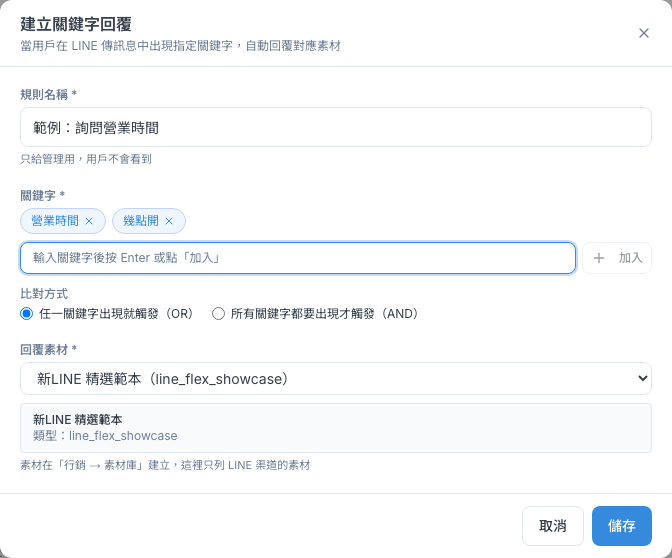
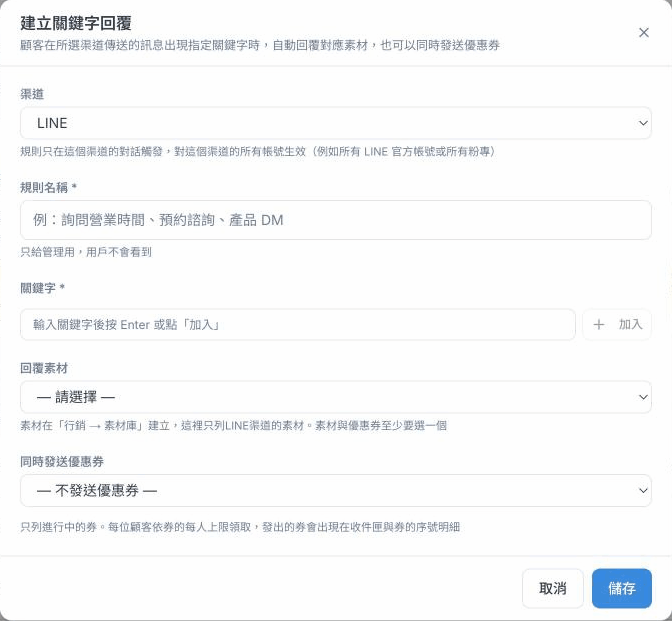
docs: 手冊第 10 章改為關鍵字回覆
- 第 5 節改寫為 LINE、Facebook、Instagram 共用的「關鍵字回覆」（PR #371）：
  建立時選渠道、素材依渠道過濾、Instagram 只能發券、同時發券與「發不出時回覆顧客」、
  列表渠道欄與篩選、渠道建立後不能改、未限定渠道的舊規則、啟用開關即時更新
- 「從這頁儲存會清掉其他動作」的警告改為「其他動作與條件會保留」（design D25）
- 重拍建立對話框截圖，新增列表截圖（UAT，只開啟對話框未儲存）；舊影片標 SHOT-OUTDATED
- 第 9 章與總目錄的「LINE 關鍵字回覆」改為「關鍵字回覆」

diff --git a/apps/web/public/manual/ch10-line.html b/apps/web/public/manual/ch10-line.html
@@ -36,16 +36,16 @@
       <div class="inner">
         <div class="eyebrow">CHAPTER 10 · 行銷與渠道</div>
         <h1>LINE 渠道工具</h1>
-        <p>設定 LINE 官方帳號的聊天室底部選單（Rich Menu）、客戶打到關鍵字時自動回覆的規則，以及客服回訊息時可一鍵帶入的快速回覆按鈕。</p>
+        <p>設定 LINE 官方帳號的聊天室底部選單（Rich Menu）、顧客打到關鍵字時自動回覆或發券的規則（LINE、Facebook、Instagram），以及客服回訊息時可一鍵帶入的快速回覆按鈕。</p>
       </div>
     </section>
 
     <section class="doc" id="p1">
       <h2><span class="idx">1</span> 這頁能做什麼</h2>
-      <p>這一章的三個工具都在側欄「行銷與渠道 › 渠道」底下，專門給 LINE 官方帳號用：</p>
+      <p>這一章的工具都在側欄「行銷與渠道 › 渠道」底下。Rich Menu 與快速回覆專門給 LINE 官方帳號用；關鍵字回覆可以用在 LINE、Facebook 與 Instagram：</p>
       <div class="quick">
         <a href="#p2"><b>LINE Rich Menu</b>聊天室底部的圖文選單</a>
-        <a href="#p5"><b>LINE 關鍵字回覆</b>客戶打到關鍵字，自動回一則素材</a>
+        <a href="#p5"><b>關鍵字回覆</b>顧客打到關鍵字，自動回素材或發券（LINE、Facebook、Instagram）</a>
         <a href="#p6"><b>LINE 快速回覆</b>存好常用按鈕組，客服一鍵帶入</a>
       </div>
       <div class="info"><span>ℹ</span><div>側欄看得到「渠道」需要管理員開給你「管理圖文選單」權限。另外，關鍵字回覆的頁面需要「檢視自動化」（新增修改要「管理自動化」）；快速回覆的新增、修改、刪除需要「管理快速回覆」。權限不夠時，關鍵字回覆頁可能看起來像「尚未建立任何關鍵字回覆」，請找管理員確認。</div></div>
@@ -168,25 +168,28 @@
 
     <section class="doc" id="p5">
       <h2><span class="idx">5</span> 關鍵字回覆</h2>
-      <p>客戶在 LINE 傳來的訊息裡出現你設定的關鍵字，系統就自動回一則素材。例如客戶問「營業時間」，自動回營業時間的圖卡。</p>
+      <p>顧客在 LINE、Facebook 或 Instagram 傳來的訊息裡出現你設定的關鍵字，系統就自動回一則素材，也可以同時發一張優惠券。例如顧客問「營業時間」，自動回營業時間的圖卡；顧客傳「領券」，自動發一張優惠券。側欄的位置是「渠道 › 關鍵字回覆」（以前叫「LINE 關鍵字回覆」）。</p>
       <figure class="video">
         <video controls preload="none" playsinline poster="uploads/videos/ch10-keyword-create.jpg">
           <source src="uploads/videos/ch10-keyword-create.mp4" type="video/mp4">
         </video>
-        <figcaption><span class="tag">影片</span>建立關鍵字回覆：填規則名稱、加兩個關鍵字、選回覆素材（約 26 秒）</figcaption>
+        <figcaption><span class="tag">影片</span>建立關鍵字回覆：填規則名稱、加兩個關鍵字、選回覆素材（約 26 秒）。影片錄於新增「渠道」欄位之前，現在建立時要先選渠道。</figcaption>
       </figure>
+      <!-- SHOT-OUTDATED: 影片錄於 PR #371 之前，對話框沒有「渠道」與「同時發送優惠券」欄位；重錄需要實際建立規則 -->
       <ol class="steps">
-        <li>先到「素材庫」做好要回覆的 LINE 素材（第 09 章）。</li>
-        <li>側欄點「渠道 › LINE 關鍵字回覆」，按「建立關鍵字回覆」。</li>
+        <li>先到「素材庫」做好要回覆的素材（第 09 章）。只想發券、不回素材，可以略過這步。</li>
+        <li>側欄點「渠道 › 關鍵字回覆」，按「建立關鍵字回覆」。</li>
+        <li>選「渠道」：LINE、Facebook 或 Instagram。規則只在這個渠道的對話觸發。如果你先在列表上方點了某個渠道的篩選，新規則會預設成那個渠道。</li>
         <li>填「規則名稱」，例如「詢問營業時間」（只給內部看）。</li>
         <li>在「關鍵字」框輸入一個關鍵字，按 Enter 或「加入」，它會變成一個小標籤。可以加好幾個。</li>
         <li>有兩個以上關鍵字時，選「比對方式」（見下表）。</li>
-        <li>「回覆素材」選一則 LINE 素材，下方會顯示素材名稱與類型。</li>
+        <li>「回覆素材」只會列出所選渠道的素材（LINE 規則只列 LINE 素材，Facebook 規則只列 Facebook 素材）。Instagram 目前沒有素材，這一欄不能選，只能發券。</li>
+        <li>要同時發券，在「同時發送優惠券」選一張進行中的券；選了券之後可以填「發不出時回覆顧客」（見下方「同時發券」）。<b>回覆素材與優惠券至少要選一個。</b></li>
         <li>按「儲存」。<b>新規則一存檔就立即生效。</b></li>
       </ol>
       <figure class="shot shot-narrow">
-        <img src="uploads/shots/ch10-keyword-dialog.png" alt="建立關鍵字回覆對話框：規則名稱、兩個關鍵字標籤、比對方式、回覆素材" loading="lazy">
-        <figcaption>關鍵字要按 Enter 或「加入」變成標籤才算數。</figcaption>
+        <img src="uploads/shots/ch10-keyword-dialog.png" alt="建立關鍵字回覆對話框：渠道、規則名稱、關鍵字、回覆素材、同時發送優惠券" loading="lazy">
+        <figcaption>先選渠道，回覆素材只列這個渠道的素材。關鍵字要按 Enter 或「加入」變成標籤才算數。</figcaption>
       </figure>
       <h3>關鍵字怎麼比對</h3>
       <table>
@@ -197,21 +200,34 @@
         </tbody>
       </table>
       <ul>
-        <li>比對是「訊息裡<b>包含</b>這幾個字」就算，不需要一字不差。所以關鍵字太短容易誤觸，例如關鍵字「價」，客戶說「評價」也會觸發。關鍵字請盡量寫完整。</li>
+        <li>比對是「訊息裡<b>包含</b>這幾個字」就算，不需要一字不差。所以關鍵字太短容易誤觸，例如關鍵字「價」，顧客說「評價」也會觸發。關鍵字請盡量寫完整。</li>
         <li>英文不分大小寫。</li>
-        <li>只會回覆 LINE 的對話，而且公司有多個 LINE 官方帳號時，<b>每個帳號都會套用</b>同一組規則。</li>
+        <li>每條規則只在所選渠道的對話觸發，並對這個渠道的<b>所有帳號</b>生效。例如公司有多個 LINE 官方帳號，LINE 規則每個帳號都會套用；Facebook 規則對所有粉專都會套用。</li>
+        <li>同一組關鍵字要在不同渠道都回覆，請每個渠道各建一條規則。</li>
+      </ul>
+      <h3>同時發券</h3>
+      <ul>
+        <li>「同時發送優惠券」只列進行中的券。每位顧客依券的每人上限領取，發出的券會出現在收件匣與券的序號明細（第 18 章）。</li>
+        <li>「發不出時回覆顧客」是選填。顧客已達領取上限、券已發完或暫停時，系統送出這段文字，例如「您已經領過這張券囉」；空白就不回覆。沒有發出的原因都會記在該對話中。</li>
+        <li>Facebook 與 Instagram 的顧客開啟票券時，以 email 驗證身分。</li>
       </ul>
       <h3>什麼時候會觸發</h3>
-      <p>客戶每傳一則含有關鍵字的訊息，就會自動回覆一次，沒有次數上限；<b>即使這段對話已經由客服接手</b>也會回。命中的規則能在這段對話的渠道送出回覆時，AI 客服就不會再另外回覆，避免客戶一次收到兩則。頁面上「怎麼用？」框裡的說明也是這樣寫的。</p>
+      <p>顧客每傳一則含有關鍵字的訊息，就會自動回覆一次，沒有次數上限；<b>即使這段對話已經由客服接手</b>也會回。命中的規則能在這段對話的渠道送出回覆時，AI 客服就不會再另外回覆，避免顧客一次收到兩則。頁面上「怎麼用？」框裡的說明也是這樣寫的。</p>
       <h3>管理規則</h3>
+      <figure class="shot">
+        <img src="uploads/shots/ch10-keyword-list.png" alt="關鍵字回覆列表：上方有全部、LINE、Facebook、Instagram 篩選，表格有狀態、規則名稱、渠道、關鍵字、回覆素材、優惠券與動作欄" loading="lazy">
+        <figcaption>列表上方可以依渠道篩選；「渠道」欄顯示規則在哪個渠道觸發。</figcaption>
+      </figure>
       <ul>
-        <li>列表最左邊的「啟用／停用」膠囊點一下就會切換，<b>立即生效</b>。暫時不想自動回覆，就切成停用。</li>
-        <li>「編輯」可以改關鍵字和素材；「刪除」會移除規則。</li>
-        <li>回覆素材顯示「素材已被刪除」時，代表那則素材被刪了、停用了，或素材太多沒載入到，請編輯規則重新選素材。</li>
+        <li>列表上方的「全部／LINE／Facebook／Instagram」可以只看某個渠道的規則。</li>
+        <li>「渠道」欄顯示規則在哪個渠道觸發。顯示「未限定渠道」的是改版前建立的舊規則；編輯並儲存時會加上所選渠道（預設為素材的渠道，沒有素材時為 LINE），之後只在那個渠道觸發。對話框會先提醒你。</li>
+        <li>列表最左邊的「啟用／停用」膠囊點一下就會切換，<b>立即生效</b>，畫面也會馬上更新。暫時不想自動回覆，就切成停用。</li>
+        <li>「編輯」可以改名稱、關鍵字、素材與優惠券，但<b>渠道建立後不能更改</b>；要換渠道請刪除後重新建立。「刪除」會移除規則。</li>
+        <li>「回覆素材」欄顯示「素材已刪除」或「素材已停用」時，請編輯規則重新選素材，或拿掉素材只發券。顯示「與規則渠道不符」時，代表規則用了別的渠道的素材，請點「到自動化規則編輯」修改。</li>
+        <li>「優惠券」欄顯示「已暫停、已結束或找不到的券」時，請編輯規則改選其他進行中的券，否則顧客觸發時券發不出去。</li>
       </ul>
-      <div class="warn"><span>⚠</span><div>關鍵字回覆的規則也會出現在「自動化」頁（第 05 章）。如果你在自動化頁替同一條規則加了其他動作（例如貼標籤），之後<b>再從這頁編輯並儲存，那些動作會被清掉</b>。加過其他動作的規則，請只在自動化頁修改。</div></div>
-      <!-- KNOWN-ISSUE: 從關鍵字頁編輯會覆蓋該規則原有的條件與動作 -->
-      <div class="info"><span>ℹ</span><div>回覆用的素材可以放 <code>{{contact.name}}</code> 這類變數（寫法見第 08 章第 6 節），送出時會換成客戶自己的資料。客戶沒有那筆資料時改用素材的預設值；連預設值也沒有就留空，不會出現大括號。選了含變數的素材，對話框會列出有哪些變數。</div></div>
+      <div class="info"><span>ℹ</span><div>關鍵字回覆的規則也會出現在「自動化」頁（第 05 章）。如果你在自動化頁替同一條規則加了其他動作（例如貼標籤）或其他條件，之後再從這頁編輯並儲存，這頁只會更換素材、優惠券與渠道條件，<b>其他動作與條件會保留</b>。渠道條件這頁不能編輯時，對話框會引導你到自動化規則編輯。</div></div>
+      <div class="info"><span>ℹ</span><div>回覆用的素材可以放 <code>{{contact.name}}</code> 這類變數（寫法見第 08 章第 6 節），送出時會換成顧客自己的資料。顧客沒有那筆資料時改用素材的預設值；連預設值也沒有就留空，不會出現大括號。選了含變數的素材，對話框會列出有哪些變數。素材裡的 <code>{{coupon.url}}</code> 只有附券廣播會替換，用在關鍵字回覆時顧客會看到原樣的文字；關鍵字發券請改用「同時發送優惠券」。</div></div>
     </section>
 
     <section class="doc" id="p6">

diff --git a/apps/web/public/manual/ch09-materials.html b/apps/web/public/manual/ch09-materials.html
@@ -44,7 +44,7 @@
 
     <section class="doc" id="p1">
       <h2><span class="idx">1</span> 這頁能做什麼</h2>
-      <p>素材庫是所有「要發給客戶的訊息」的倉庫。先在這裡把訊息做好、看過預覽，之後廣播（第 08 章）和 LINE 關鍵字回覆（第 10 章）都直接挑素材來用，不用每次重做。從側欄「行銷與渠道 › 行銷 › 素材庫」進來，頁面標題是「訊息素材」。</p>
+      <p>素材庫是所有「要發給客戶的訊息」的倉庫。先在這裡把訊息做好、看過預覽，之後廣播（第 08 章）和關鍵字回覆（第 10 章）都直接挑素材來用，不用每次重做。從側欄「行銷與渠道 › 行銷 › 素材庫」進來，頁面標題是「訊息素材」。</p>
       <div class="flow">
         <div class="flow-step"><div class="fn">步驟 1</div><div class="ft">選平台</div><div class="fd">LINE 或 FB Messenger</div></div>
         <div class="flow-step"><div class="fn">步驟 2</div><div class="ft">選版型</div><div class="fd">純文字、圖片、卡片訊息……</div></div>

diff --git a/apps/web/public/manual/index.html b/apps/web/public/manual/index.html
@@ -100,7 +100,7 @@
       </a>
       <a class="chapter-item" href="ch10-line.html" style="--accent:#008236">
         <span class="num">10</span>
-        <span class="body"><span class="t">LINE 渠道工具</span><span class="d">設定 LINE 圖文選單、關鍵字自動回覆與快速回覆按鈕</span></span>
+        <span class="body"><span class="t">LINE 渠道工具</span><span class="d">設定 LINE 圖文選單與快速回覆按鈕，以及 LINE、Facebook、Instagram 的關鍵字自動回覆與發券</span></span>
         <span class="arrow">→</span>
       </a>
       <a class="chapter-item" href="ch11-portal.html" style="--accent:#008236">
